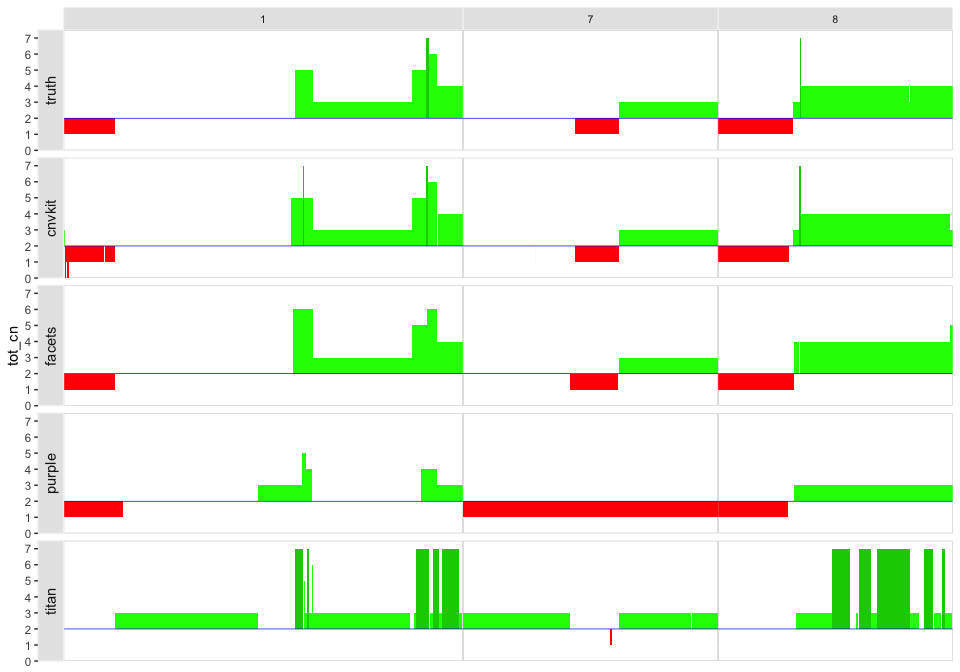
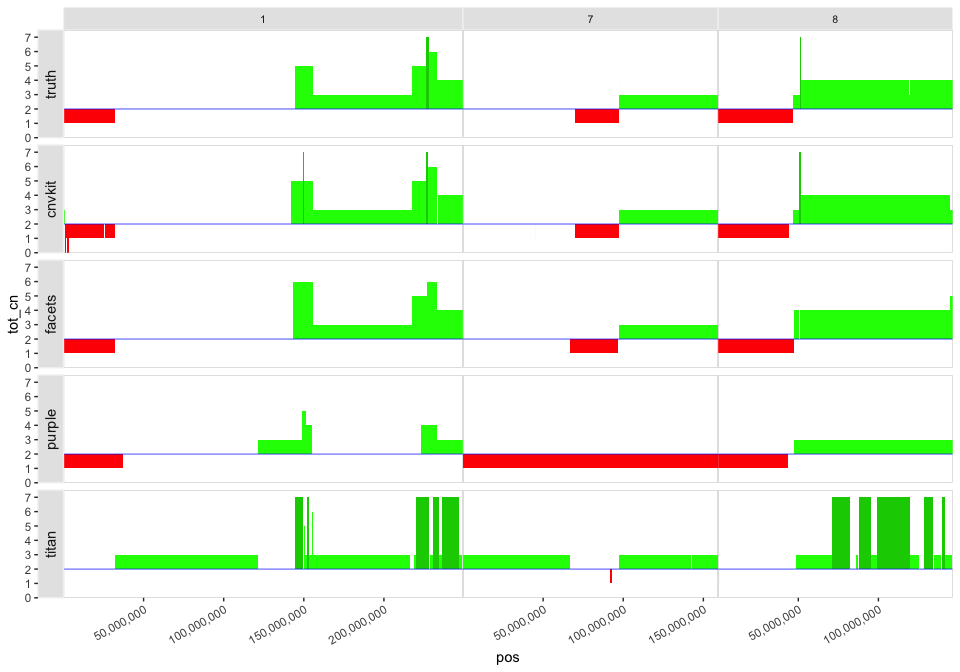
add option for x axis labels

diff --git a/README.md b/README.md
@@ -146,7 +146,8 @@ chromosomes:
 
 ``` r
 plot_piano(list(truth = cn_truth, cnvkit = cn_cnvkit, facets = cn_facets, purple = cn_purple, titan = cn_titan),
-           chromosomes = c("1", "7", "8"))
+           chromosomes = c("1", "7", "8"),
+           hide_x_lab = FALSE)
 ```
 
 <img src="man/figures/README-piano-plot-chrom-1.png" width="100%" />
